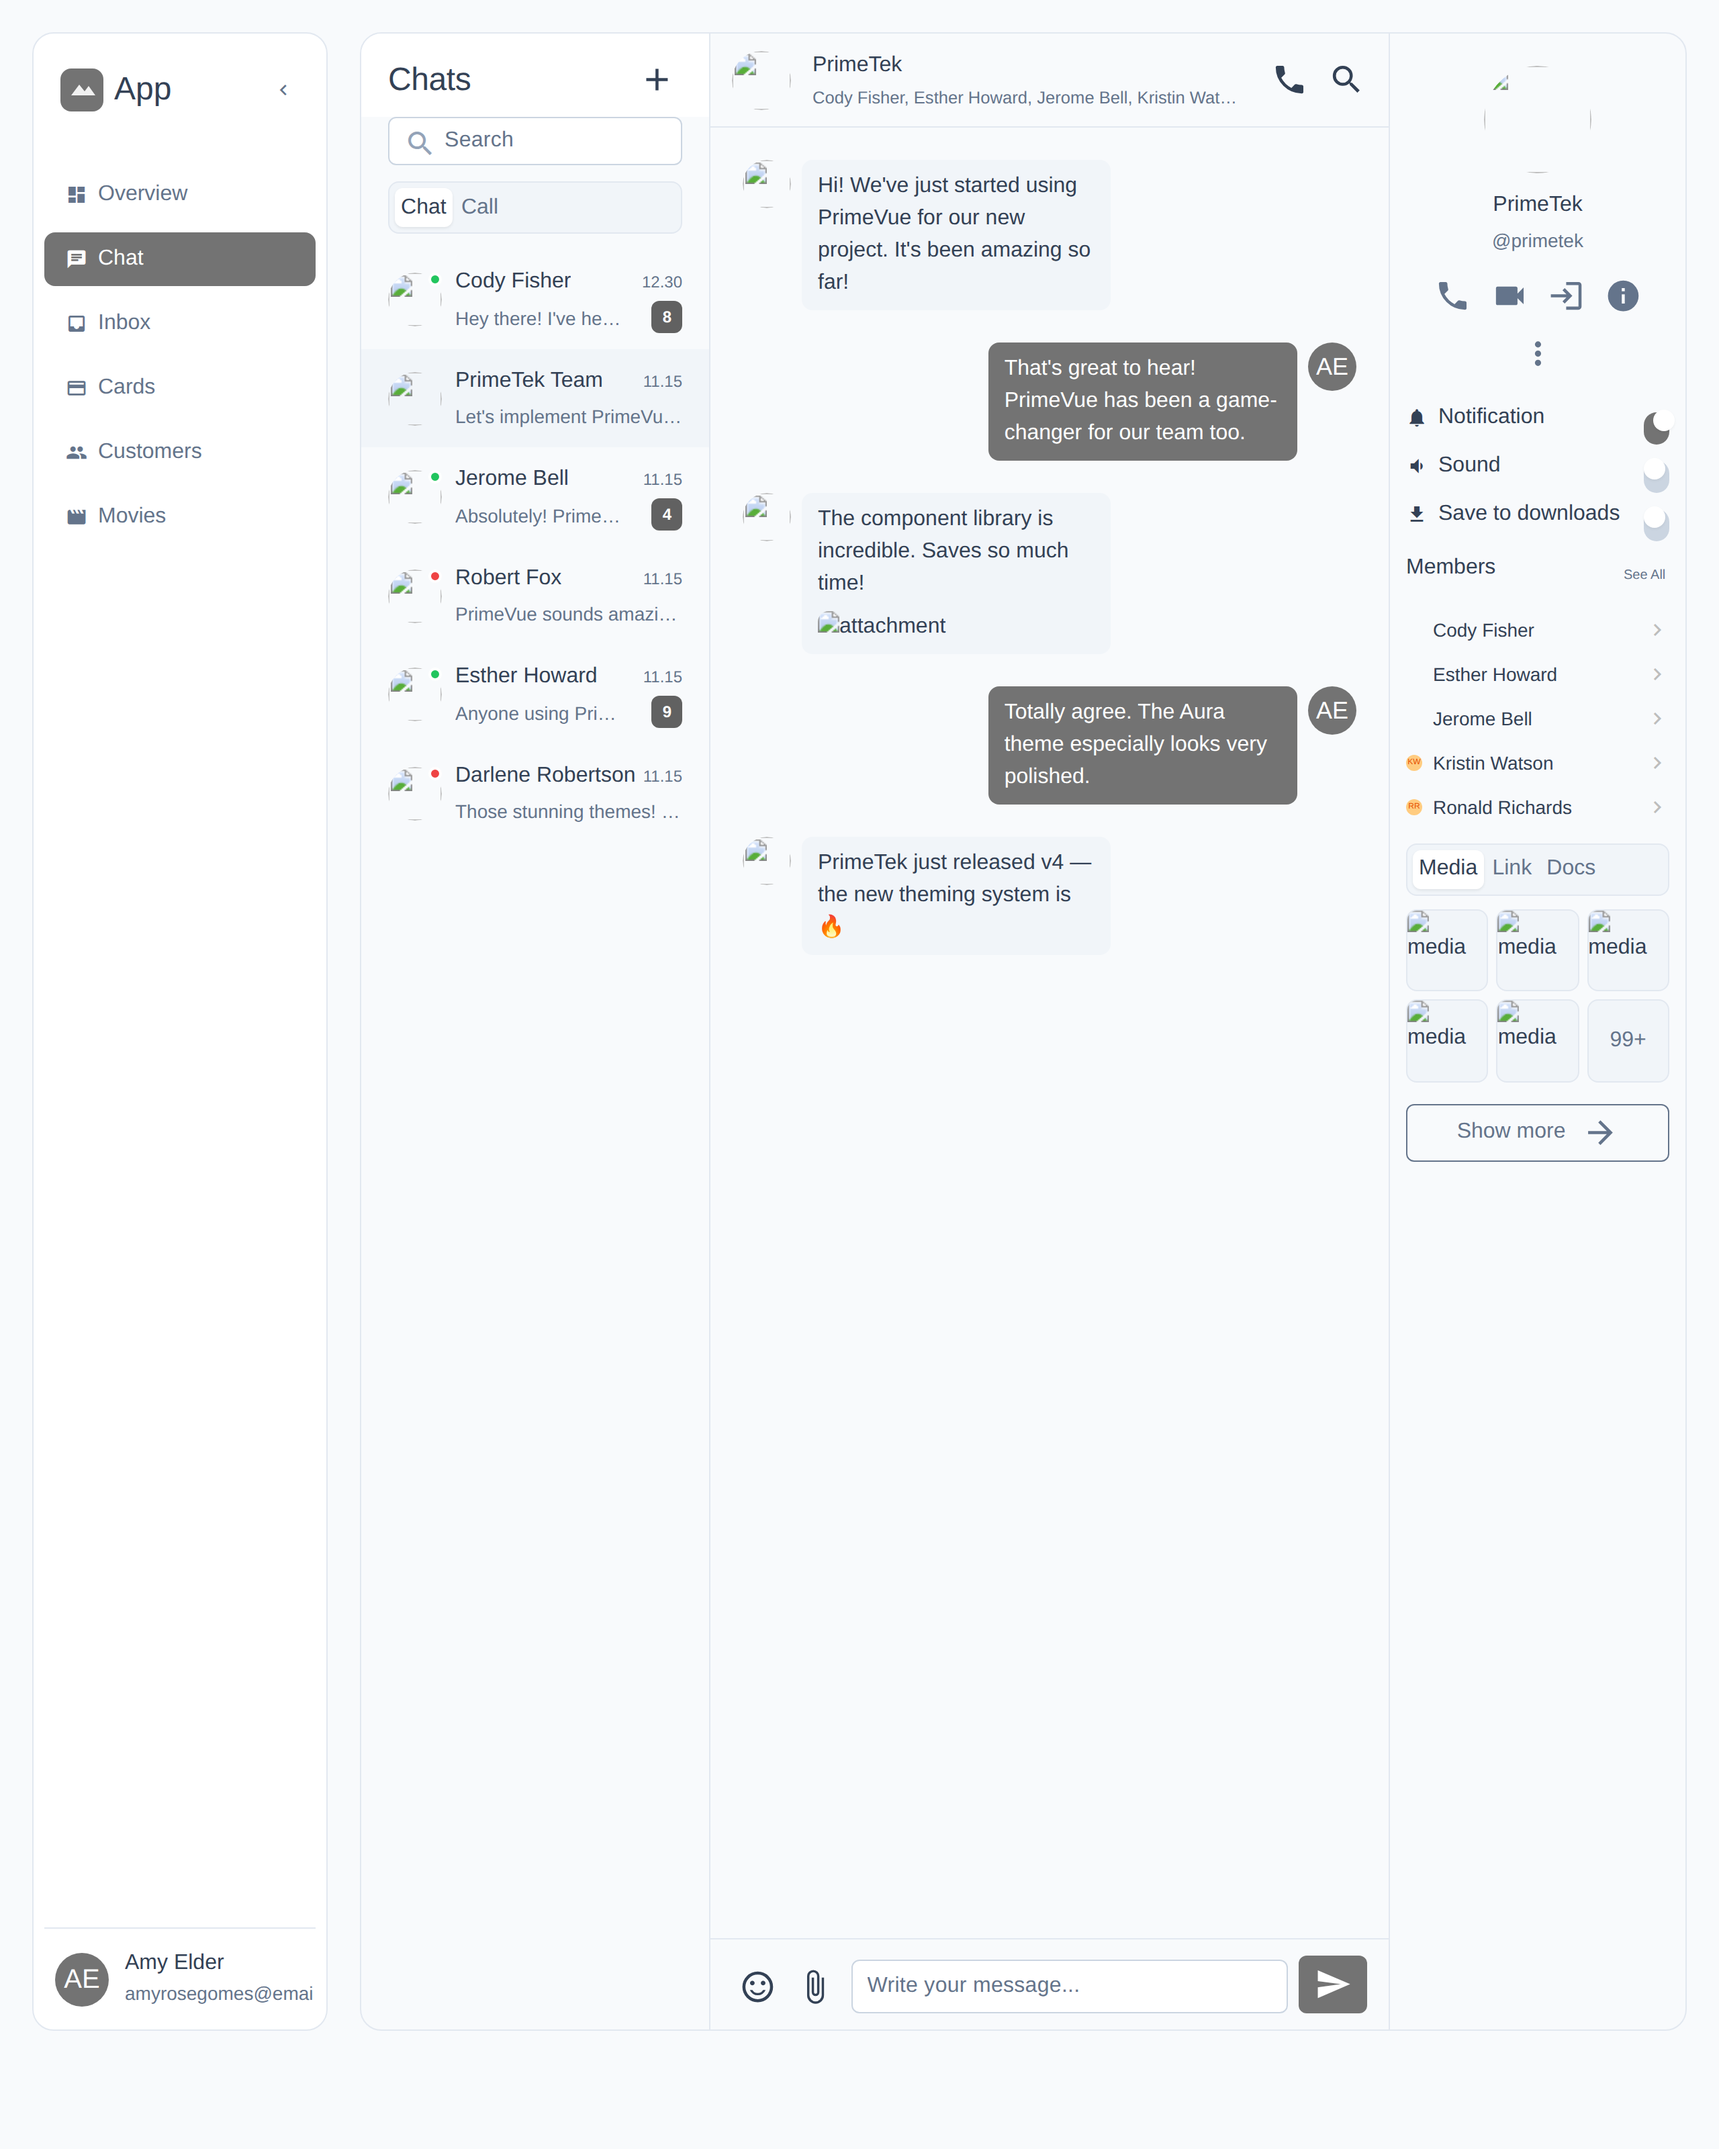
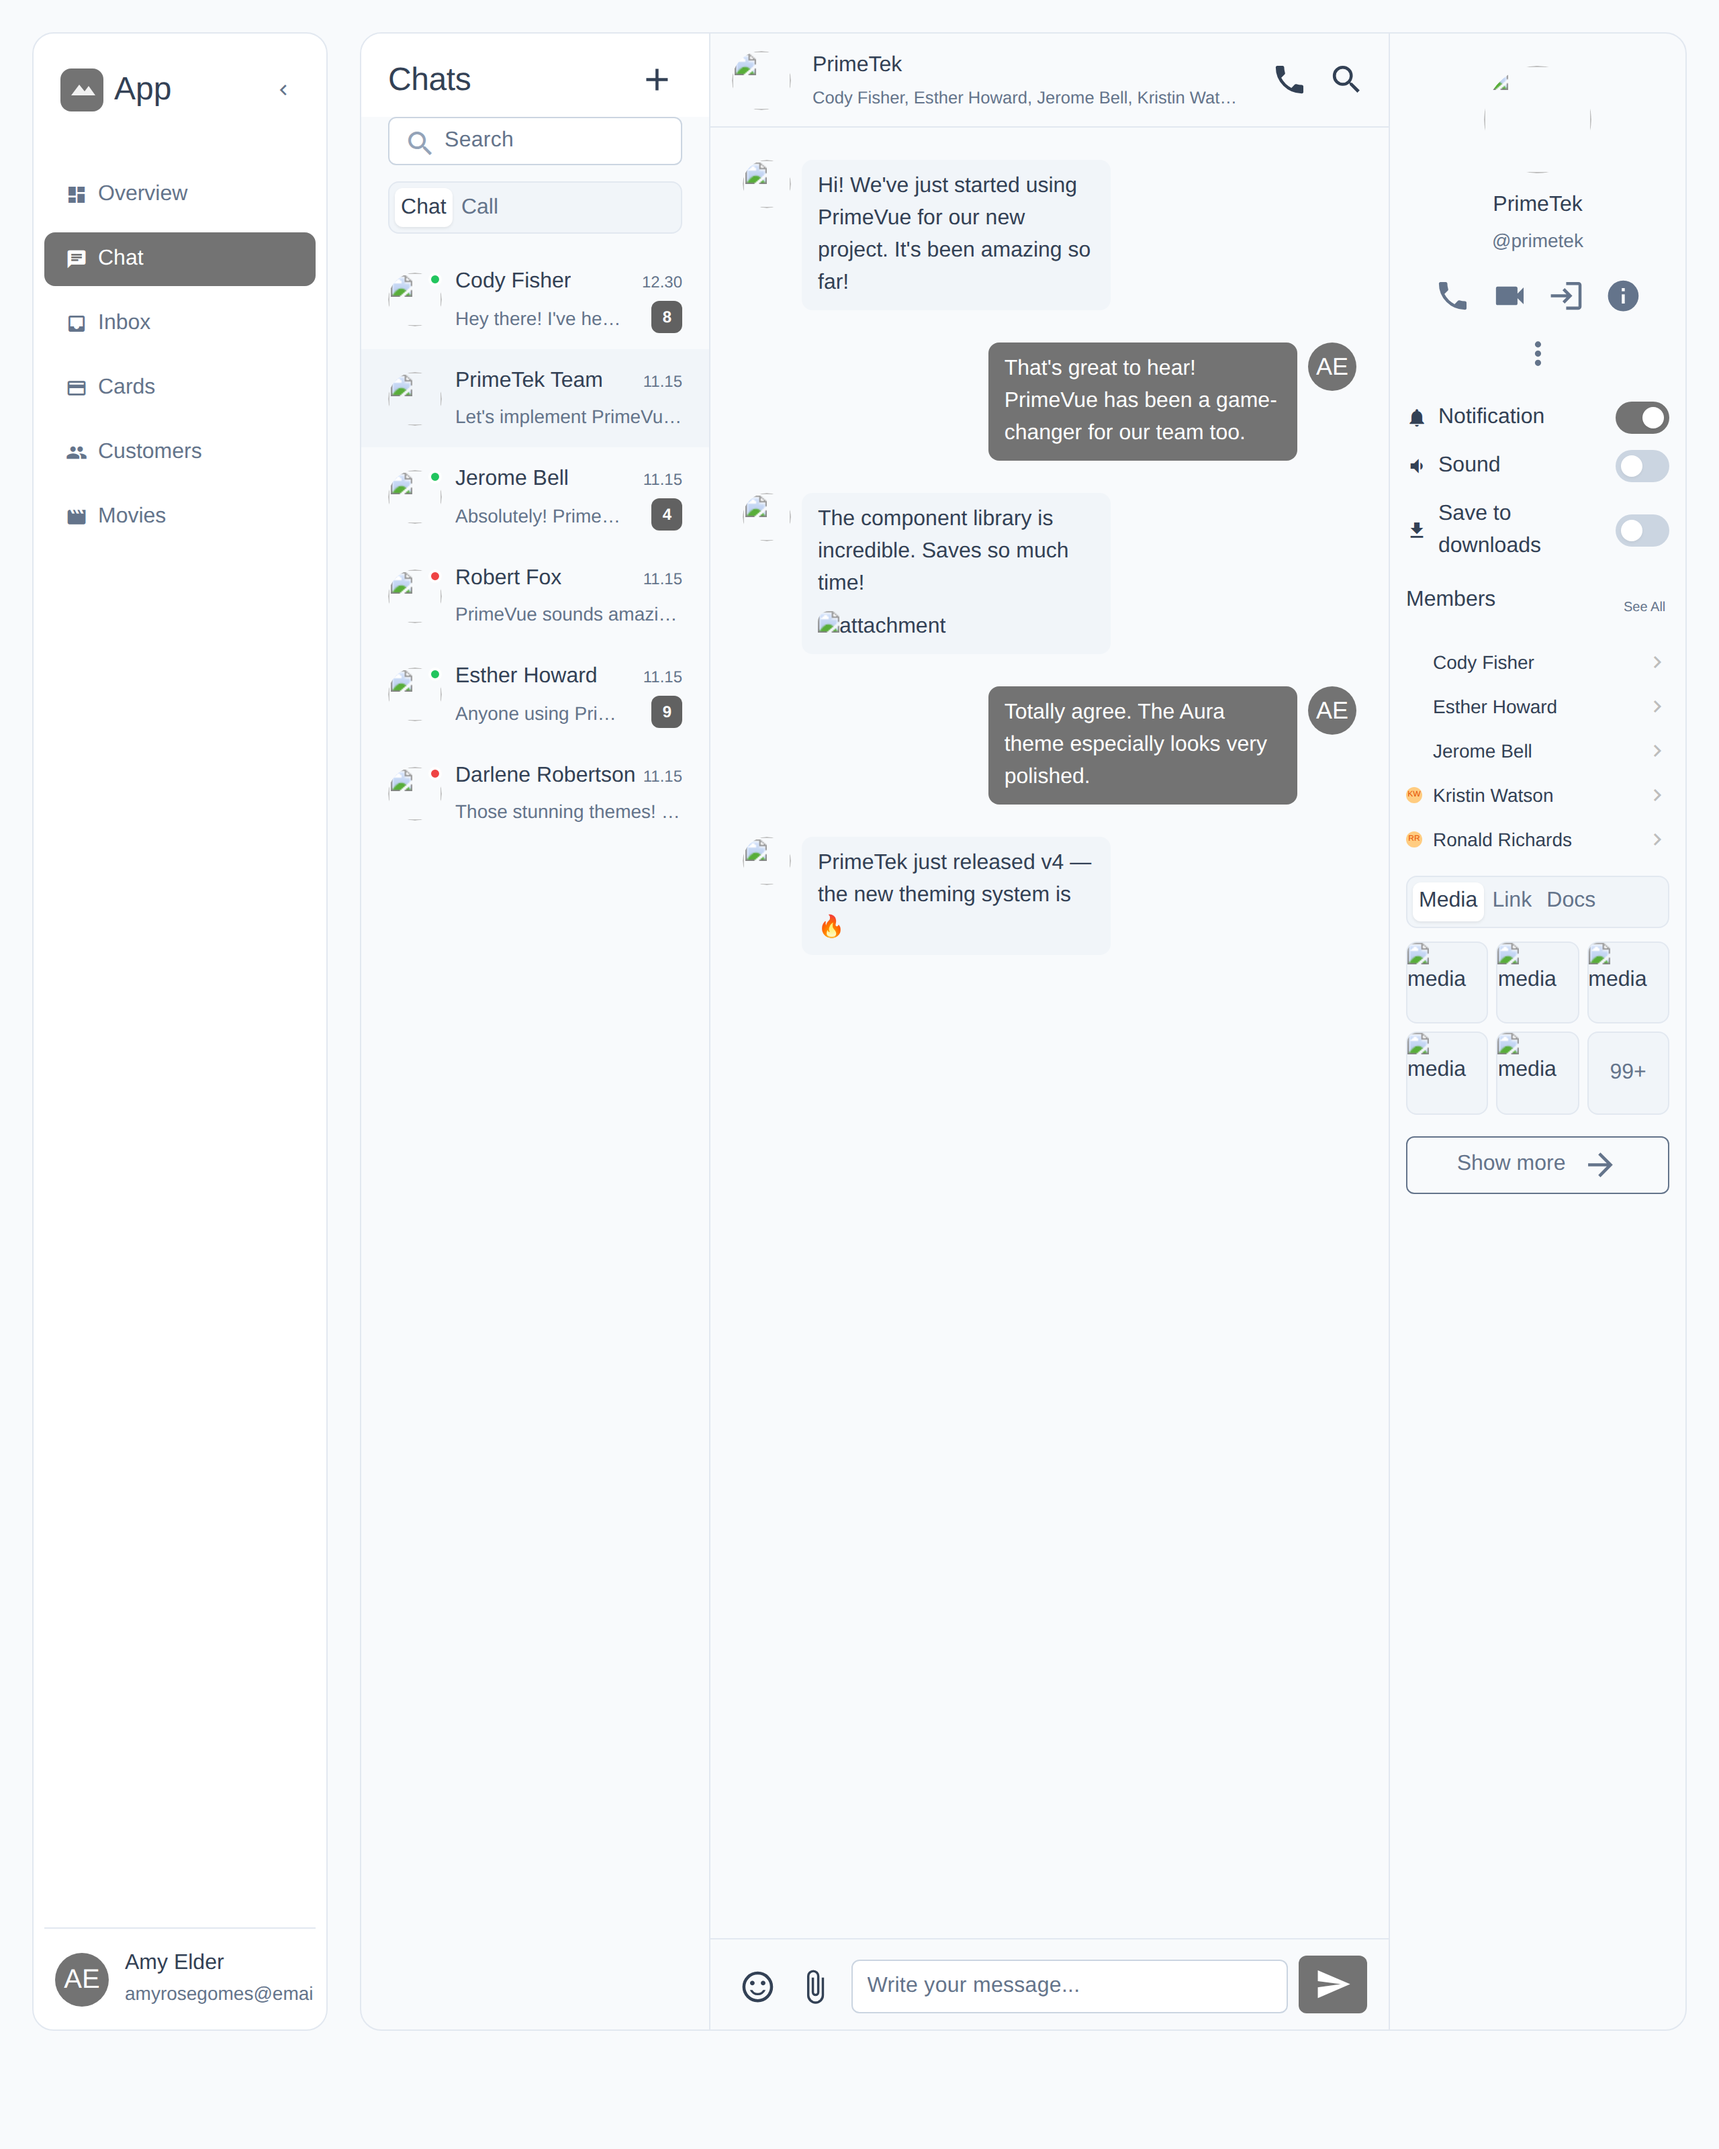
Fix dense toggle crescent, floating badge dot, and SelectButton outline border; update dashboard diff

Changed region(s): [[0.8125, 0.25, 0.9688, 0.5625], [0.9062, 0.1875, 0.9688, 0.2812]]

diff --git a/src/css/components/_toggle.scss b/src/css/components/_toggle.scss
@@ -47,3 +47,25 @@
 .q-toggle__thumb:before {
   display: none;
 }
+
+// Quasar's `dense` modifier (`.q-toggle--dense`) carries higher specificity and
+// overrides the inner track + thumb geometry with Material values (width .8em /
+// height .5em, thumb pinned to top-left). With the Aura-sized 0.667em handle the
+// track collapses to a narrow oval and the handle overhangs it as a crescent.
+// Re-apply the Aura geometry to the dense variant so a dense q-toggle renders as
+// a proper Aura switch rather than a broken crescent.
+.q-toggle--dense .q-toggle__inner {
+  width: 1.667em;
+  min-width: 1.667em;
+  height: 1em;
+  padding: 0;
+}
+
+.q-toggle--dense .q-toggle__thumb {
+  top: 0.1665em;
+  left: 0.1665em;
+}
+
+.q-toggle--dense .q-toggle__inner--truthy .q-toggle__thumb {
+  left: 0.833em;
+}

diff --git a/playground/dashboard.css b/playground/dashboard.css
@@ -800,10 +800,14 @@ body {
   font-weight: 500 !important;
   min-height: 0 !important;
 }
-/* Hide Quasar's internal segment dividers between toggle buttons. */
+/* Hide Quasar's internal segment dividers between toggle buttons. The cards page
+   uses the `outline` prop, which draws a per-button border via `.q-btn--outline`
+   `:before`; without hiding it the SelectButton shows a doubled outer border and
+   inter-segment dividers that PrimeVue's single-pill SelectButton does not have. */
 .q-btn-toggle .q-btn__content + .q-separator,
 .q-btn-toggle > .q-separator,
-.q-btn-toggle .q-btn--standard:before {
+.q-btn-toggle .q-btn--standard:before,
+.q-btn-toggle .q-btn--outline:before {
   display: none !important;
   border: 0 !important;
 }

diff --git a/src/css/components/_badge.scss b/src/css/components/_badge.scss
@@ -12,3 +12,14 @@
 .q-badge--rounded {
   border-radius: 9999px;
 }
+
+// A floating badge with no content is an Aura "dot" indicator (e.g. an unread
+// marker or status dot). The min-height/min-width + padding above would stretch
+// the empty badge into a tall pill, so collapse it back to a small round dot.
+.q-badge--floating:empty {
+  min-width: 0;
+  min-height: 0;
+  width: var(--p-badge-dot-size);
+  height: var(--p-badge-dot-size);
+  padding: 0;
+}

diff --git a/docs/DASHBOARD-DIFF.md b/docs/DASHBOARD-DIFF.md
@@ -15,8 +15,11 @@ npm run screenshots     # writes docs/screenshots/dashboard-*.png
 ```
 
 `docs/screenshots/dashboard-quasar-aura.png` and `dashboard-primevue.png` capture
-the **Overview** page. The remaining pages are reached through the sidebar nav;
-both dashboards switch pages with the same `.dash-nav-item` buttons.
+the **Overview** page. Every page is also captured individually as
+`dashboard-<page>-quasar-aura.png` and `dashboard-<page>-primevue.png` (overview,
+chat, inbox, cards, customers, movies) so each page can be diffed image-to-image.
+`tools/screenshot.mjs` walks the shared `.dash-nav-item` sidebar buttons to reach
+each page; both dashboards switch pages with the same nav.
 
 > **Palette note.** Both dashboards share `playground/dashboard-data.js`, whose
 > `DEFAULT_PALETTE` is `noir`. The primary colour therefore renders as the Aura
@@ -29,7 +32,22 @@ Status legend: ✅ matches · 🔧 fixed in this pass · ⚠ partial / minor 
 
 ---
 
-## Cross-cutting fixes applied in this pass
+## Latest review pass — full per-page image analysis
+
+A fresh screenshot of **all six pages** (captured individually, not just the
+Overview landing) surfaced three genuine theme bugs that the previous pass had
+only partially closed. All three are now fixed and re-verified from the
+regenerated per-page screenshots.
+
+| Fix | Where | What changed |
+|-----|-------|--------------|
+| Dense toggle crescent (CH5/CA8) | `src/css/components/_toggle.scss` | The Chat (Notification/Sound/Save) and Cards (Switch to Dark) switches use `q-toggle … dense`. Quasar's `.q-toggle--dense` rules (higher specificity) reset the inner track to `.8em×.5em` and pin the thumb to top-left, so the Aura-sized `0.667em` handle overhung the collapsed track as a **dark crescent**. Added `.q-toggle--dense` overrides that re-apply the Aura track + thumb geometry, so a dense `q-toggle` now renders as a proper Aura switch. |
+| Empty floating badge dot (OV2/CU2) | `src/css/components/_badge.scss` | An empty floating `q-badge` (unread / status dot) inherited `min-height: var(--p-badge-height)` (1.5 rem) from the Aura Badge rule, stretching the dot into a **tall red pill**. This showed on the Overview notification bell and every Customers status dot. Added `.q-badge--floating:empty` (min-height/min-width 0, `--p-badge-dot-size`) to collapse content-less floating badges to a round dot. |
+| SelectButton `outline` variant (CA1/CA2/CA6) | `playground/dashboard.css` | The Cards Follow/Message, payment-type and donate-amount toggles use the `outline` prop, which draws a per-button border via `.q-btn--outline::before`. That produced a **doubled outer border + inter-segment dividers** PrimeVue's single-pill SelectButton lacks. Extended the divider-hiding rule to `.q-btn-toggle .q-btn--outline:before`. |
+
+---
+
+## Previous cross-cutting fixes
 
 | Fix | Where | What changed |
 |-----|-------|--------------|
@@ -59,7 +77,7 @@ Status legend: ✅ matches · 🔧 fixed in this pass · ⚠ partial / minor 
 | ID | Area | Quasar | PrimeVue | Status |
 |----|------|--------|----------|--------|
 | OV1 | Search input | `q-input outlined dense` + `#prepend` | `IconField + InputIcon + InputText` | ✅ |
-| OV2 | Notification button | `q-btn … round` + floating `q-badge` | `Button variant="outlined"` (rounded **square**) + small `OverlayBadge` dot | 🔧 Fixed — button changed to rounded-square (`notif-btn` class) and badge dot sized down to 10×10 px (`notif-badge` class). |
+| OV2 | Notification button | `q-btn … round` + floating `q-badge` | `Button variant="outlined"` (rounded **square**) + small `OverlayBadge` dot | 🔧 Fixed — button is a rounded-square (`notif-btn`); badge is now a round dot. The empty floating badge previously stretched to a tall red pill because it inherited the Aura Badge `min-height`; `.q-badge--floating:empty` in `_badge.scss` collapses it to `--p-badge-dot-size`. |
 | OV3 | Weekly/Monthly/Yearly | `q-btn-toggle` | `SelectButton` | 🔧 Fixed — `q-btn-toggle` now renders as an Aura SelectButton pill with a raised chip for the selected option (was a solid primary fill). |
 | OV4 | Download button | `q-btn color="primary"` | `Button` | ✅ |
 | OV5 | Date picker | `q-input` + `q-date` popup | `DatePicker showIcon iconDisplay="input"` | ⛔ No Quasar built-in DatePicker equivalent. |
@@ -80,7 +98,7 @@ Status legend: ✅ matches · 🔧 fixed in this pass · ⚠ partial / minor 
 | CH2 | Chat-list avatars | `q-avatar size="40px"` | `Avatar size="large"` | 🌐 Both use the same primefaces CDN images; offline they fall back to broken-image glyphs on both sides. |
 | CH3 | Unread-count badge | `q-badge color="grey-8"` | `Badge severity="contrast"` | ✅ Dark contrast badge. |
 | CH4 | Message textarea | `q-input autogrow` | `Textarea autoResize` | ✅ |
-| CH5 | Toggle switches | `q-toggle` | `ToggleSwitch` | ✅ Aura track/thumb tokens. |
+| CH5 | Toggle switches | `q-toggle` | `ToggleSwitch` | 🔧 Fixed — the `dense` toggles rendered as a dark crescent (Quasar's `.q-toggle--dense` geometry overrode the Aura sizing); `_toggle.scss` now re-applies the Aura track/thumb geometry for the dense variant. |
 | CH6 | Media type tabs | `q-btn-toggle` | `SelectButton` | 🔧 Fixed by the SelectButton pass. |
 | CH7 | Send button | `q-btn icon="send"` (square radius) | `Button icon="pi pi-send"` | ✅ |
 | CH8 | Member chevron | `q-icon chevron_right` | `pi pi-chevron-right` | ✅ |
@@ -108,14 +126,14 @@ Status legend: ✅ matches · 🔧 fixed in this pass · ⚠ partial / minor 
 
 | ID | Area | Quasar | PrimeVue | Status |
 |----|------|--------|----------|--------|
-| CA1 | Follow / Message | `q-btn-toggle spread` | `SelectButton` | 🔧 Fixed by the SelectButton pass. |
-| CA2 | Payment-type toggle | `q-btn-toggle` icon-only | `SelectButton #option` | 🔧 Fixed by the SelectButton pass. |
+| CA1 | Follow / Message | `q-btn-toggle spread` | `SelectButton` | 🔧 Fixed by the SelectButton pass; the `outline`-variant per-button border is now hidden so it matches the single-pill SelectButton. |
+| CA2 | Payment-type toggle | `q-btn-toggle` icon-only | `SelectButton #option` | 🔧 Fixed by the SelectButton pass (outline border removed). |
 | CA3 | OTP input | 4 × `q-input` | `InputOtp :length="4"` | ⚠ Manual workaround; visually close, no built-in paste/auto-advance semantics. |
 | CA4 | Slider | `q-slider` | `Slider` | ✅ Aura track/thumb tokens. |
 | CA5 | Custom Amount | `q-input type=number` | `InputNumber showButtons` | ⛔ `q-input` has no +/- spinner buttons. |
-| CA6 | Donate amount toggle | `q-btn-toggle spread` | `SelectButton` | 🔧 Fixed by the SelectButton pass. |
+| CA6 | Donate amount toggle | `q-btn-toggle spread` | `SelectButton` | 🔧 Fixed by the SelectButton pass (outline border removed). |
 | CA7 | Radio (delivery) | `q-radio` | `RadioButton` | 🔧 Fixed — removed the white `q-radio__check` colour override in `_radio.scss`; inner dot now inherits primary colour and is clearly visible against a light background. |
-| CA8 | Dark-mode toggle | `q-toggle` | `ToggleSwitch` | 🔧 Fixed — added `.q-toggle__thumb:before { display:none }` to `_toggle.scss`; suppresses the Material scale(2) ripple circle that bled outside the Aura-sized pill track. |
+| CA8 | Dark-mode toggle | `q-toggle` | `ToggleSwitch` | 🔧 Fixed — the dense toggle rendered as a crescent; `_toggle.scss` now re-applies the Aura geometry to `.q-toggle--dense` (in addition to the earlier `.q-toggle__thumb:before { display:none }`). |
 | CA9 | Divider | `q-separator` | `Divider` | ✅ |
 | CA10 | AvatarGroup | overlapping `q-avatar` | `AvatarGroup` | ✅ |
 | CA11 | Job bookmark button | `q-btn outline round` | `Button rounded variant="outlined"` | ✅ |
@@ -127,7 +145,7 @@ Status legend: ✅ matches · 🔧 fixed in this pass · ⚠ partial / minor 
 | ID | Area | Quasar | PrimeVue | Status |
 |----|------|--------|----------|--------|
 | CU1 | "950 Active User" | `q-btn icon="circle"` | `Button` + green pt icon | 🔧 Fixed — replaced `icon-color="positive"` (overridden by btn colour) with an explicit inline `q-icon` using `color:var(--p-green-500)`. |
-| CU2 | Status tag | `q-badge positive/negative/info` | `Tag success/danger/info` | 🔧 Fixed — soft tinted pills (green/red/blue). |
+| CU2 | Status tag | `q-badge positive/negative/info` | `Tag success/danger/info` | 🔧 Fixed — soft tinted pills (green/red/blue). The per-row avatar **status dot** (empty floating badge) also stretched to a tall pill until `.q-badge--floating:empty` collapsed it to a round dot. |
 | CU3 | DataTable header | `q-table` sticky-header wrap | `DataTable` sticky thead | ✅ |
 | CU4 | Row checkboxes | `q-table selection="multiple"` | `Column selectionMode` | ✅ |
 | CU5 | More/Details popover | per-row `q-menu` | shared `Popover` | ✅ Functional parity. |
